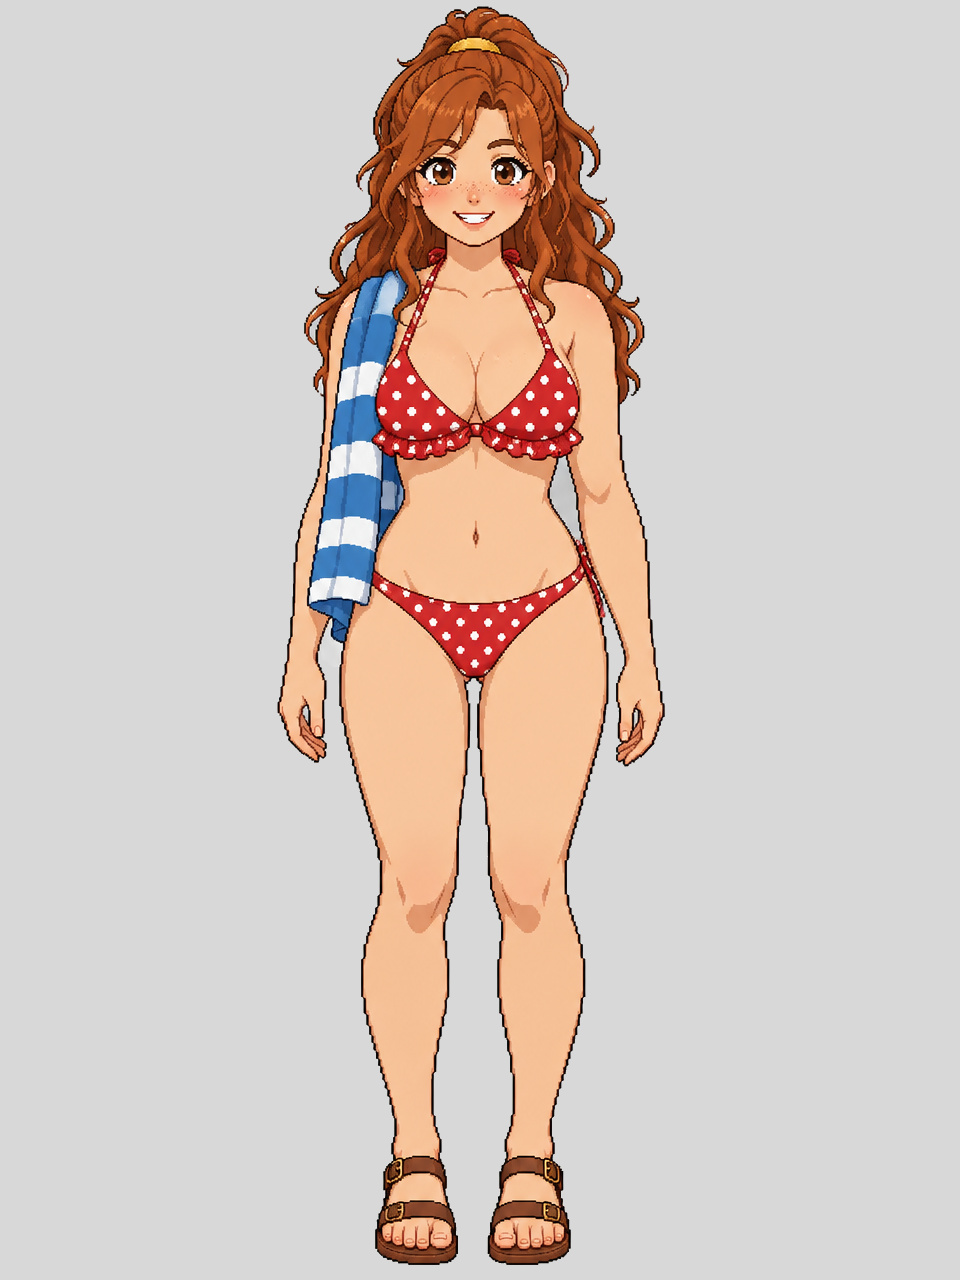
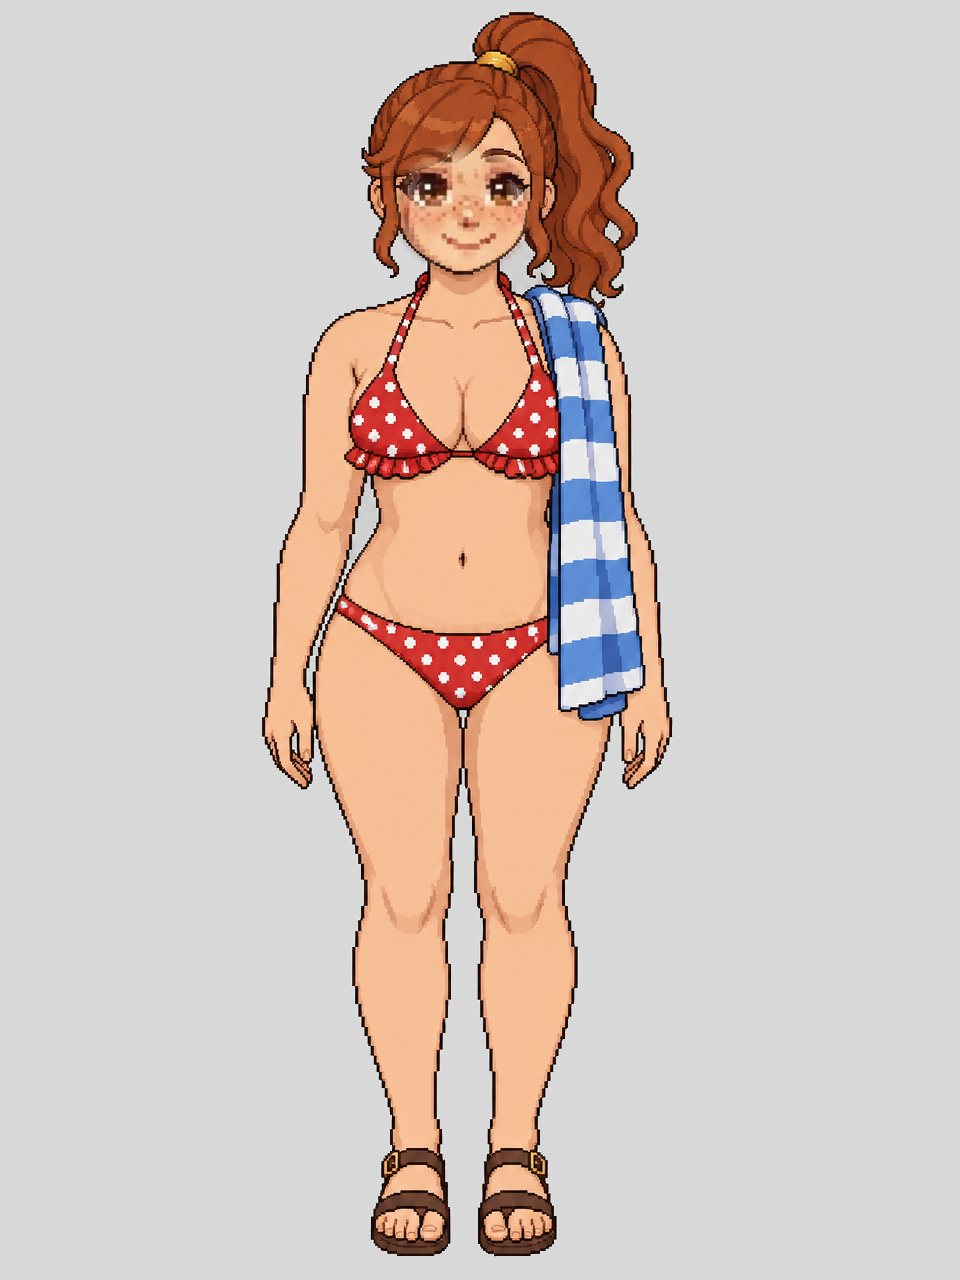
Outfit sprites: Rosa and Bram regenerated closer to their day looks; day faces transplanted onto all 12 by eye alignment with tone match and feathered edge

Changed region(s): [[0.25, 0.0, 0.7188, 1.0], [0.4688, 0.4062, 0.5, 0.4375]]

diff --git a/assets/npcs/faces/outfits.py b/assets/npcs/faces/outfits.py
@@ -5,7 +5,13 @@ with a detailed description of the character's face, hair, skin, eyes and build 
 the same front-view standing pose on plain light grey; Veyra's swim sprite is the owner's approved concept. Faces drift a little from the day
 sprites (accepted by the owner); the day sprites and the faces strips are not touched.
 
-This script only flattens each image onto the plain grey of the other sprites (any transparency onto grey 216; a near-grey background is
+Then the FACE (eyes, brows, nose, mouth, cheeks; Gruk's tusks; Veyra's glasses and fringe) of the day sprite is transplanted onto each
+generated face: a soft ellipse around the day face, scaled, rotated and moved so the day sprite's eye centres land on the generated sprite's
+eye centres (both hand-set below, EYES), the day face's skin tone shifted to the generated skin round the edge, and the edge feathered.
+Hair, hats, ears and the head outline stay the generated sprite's, so the head stays joined to the body. Veyra's generated sleep sprite has
+her fringe on the other side, so it is mirrored first (FLIP).
+
+The script also flattens each image onto the plain grey of the other sprites (any transparency onto grey 216; a near-grey background is
 evened out to exactly that grey by a flood fill from the border, like src/render/npcs/art.ts cutOut) and saves assets/npcs/<id>_<outfit>.jpg.
 
   python assets/npcs/faces/outfits.py [id ...]
@@ -50,13 +56,68 @@ def flatten(path):
     return a.astype(np.uint8)
 
 
+# Eye centres (x, y): left eye then right eye as seen in the picture. Day sprites in assets/npcs/<id>.jpg pixels, outfits in the 960x1280
+# generated pixels (after FLIP). Veyra's left eye is under her fringe: the centre of that glasses lens.
+EYES = {
+    'mara': {'day': ((418, 223), (477, 223)), 'sleep': ((437, 235), (507, 235)), 'swim': ((437, 240), (507, 240))},
+    'rosa': {'day': ((412, 232), (475, 232)), 'sleep': ((432, 187), (505, 187)), 'swim': ((427, 187), (500, 187))},
+    'gruk': {'day': ((433, 168), (483, 168)), 'sleep': ((450, 147), (505, 147)), 'swim': ((450, 152), (505, 152))},
+    'orrin': {'day': ((417, 195), (477, 195)), 'sleep': ((437, 142), (497, 142)), 'swim': ((397, 217), (462, 217))},
+    'bram': {'day': ((413, 202), (473, 202)), 'sleep': ((415, 212), (510, 212)), 'swim': ((445, 202), (515, 202))},
+    'veyra': {'day': ((448, 130), (507, 128)), 'sleep': ((447, 112), (507, 112)), 'swim': ((440, 145), (500, 142))},
+}
+FLIP = {('veyra', 'sleep')}
+# The face ellipse on the day sprite, in eye distances d from the eyes' midpoint: centre drop, half width, half height, feather.
+FACE = {
+    'mara': (0.3, 0.95, 0.75, 0.16), 'rosa': (0.3, 0.85, 0.78, 0.16), 'gruk': (0.55, 1.05, 1.25, 0.16),
+    'orrin': (0.5, 0.95, 1.1, 0.16), 'bram': (0.45, 1.0, 1.0, 0.16), 'veyra': (0.3, 1.05, 0.72, 0.14),
+}
+
+
+def transplant(cid, outfit, gen):
+    """The day sprite's face, eye-aligned, tone-matched and feathered, over the generated face."""
+    import cv2
+
+    day = np.array(Image.open(os.path.join(ROOT, f'{cid}.jpg')).convert('RGB')).astype(np.float32)
+    (dl, dr), (gl, gr) = EYES[cid]['day'], EYES[cid][outfit]
+    dl, dr, gl, gr = (np.array(p, np.float32) for p in (dl, dr, gl, gr))
+    d_day = np.linalg.norm(dr - dl)
+    k = np.linalg.norm(gr - gl) / d_day
+    ang = np.arctan2(*(gr - gl)[::-1]) - np.arctan2(*(dr - dl)[::-1])
+    c, s_ = np.cos(ang) * k, np.sin(ang) * k
+    mid_d, mid_g = (dl + dr) / 2, (gl + gr) / 2
+    M = np.array([[c, -s_, 0], [s_, c, 0]], np.float32)
+    M[:, 2] = mid_g - M[:, :2] @ mid_d
+    h, w, _ = gen.shape
+    warped = cv2.warpAffine(day, M, (w, h), flags=cv2.INTER_LINEAR, borderMode=cv2.BORDER_REPLICATE)
+    drop, ax, ay, fe = FACE[cid]
+    mask = np.zeros(day.shape[:2], np.float32)
+    cv2.ellipse(mask, (int(mid_d[0]), int(mid_d[1] + drop * d_day)), (int(ax * d_day), int(ay * d_day)), 0, 0, 360, 1.0, -1)
+    mask = cv2.warpAffine(mask, M, (w, h), flags=cv2.INTER_LINEAR)
+    sig = fe * d_day * k
+    soft = cv2.GaussianBlur(mask, (0, 0), sig)
+    soft = np.clip((soft - 0.15) / 0.7, 0, 1)
+    # skin tone: match the day face to the generated face in the ring where the two meet
+    ring = (soft > 0.05) & (soft < 0.6)
+    g = gen.astype(np.float32)
+    delta = np.median(g[ring], axis=0) - np.median(warped[ring], axis=0)
+    edge = np.clip(1 - soft, 0, 1)[..., None] * 0.5 + 0.5  # the whole face shifts half way, the edge all the way
+    warped = np.clip(warped + delta * edge, 0, 255)
+    out = g * (1 - soft[..., None]) + warped * soft[..., None]
+    return out.round().astype(np.uint8)
+
+
 def main(ids):
     for cid in ids:
         for outfit in ('sleep', 'swim'):
             src = os.path.join(SRC, f'{cid}_{outfit}.png')
             if not os.path.exists(src):
                 continue
-            Image.fromarray(flatten(src)).save(os.path.join(ROOT, f'{cid}_{outfit}.jpg'), quality=95, subsampling=0)
+            flat = flatten(src)
+            if (cid, outfit) in FLIP:
+                flat = flat[:, ::-1].copy()
+            flat = transplant(cid, outfit, flat)
+            Image.fromarray(flat).save(os.path.join(ROOT, f'{cid}_{outfit}.jpg'), quality=95, subsampling=0)
             print(cid, outfit, 'saved')
 
 
